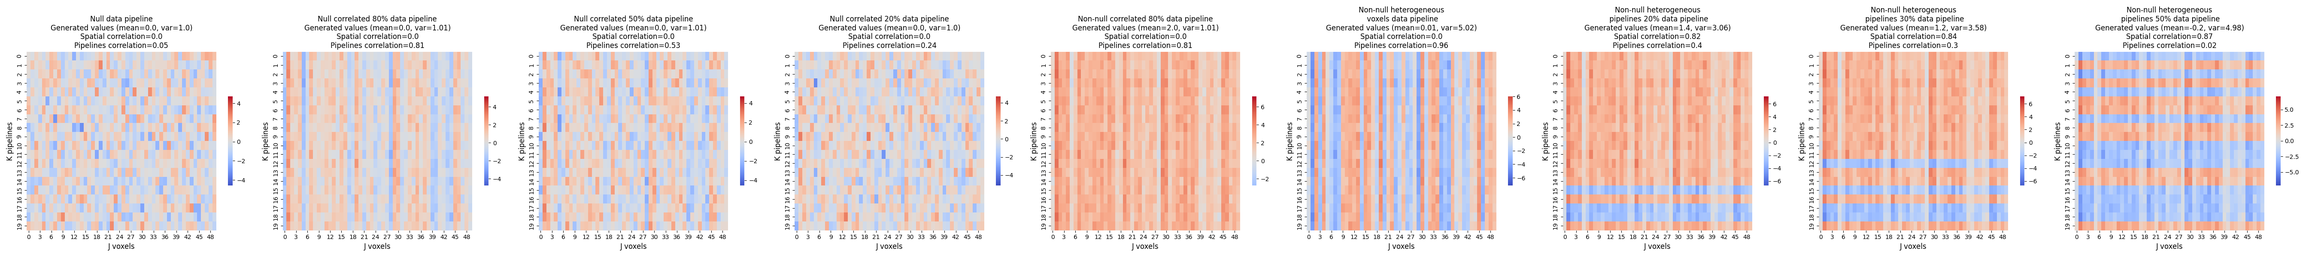
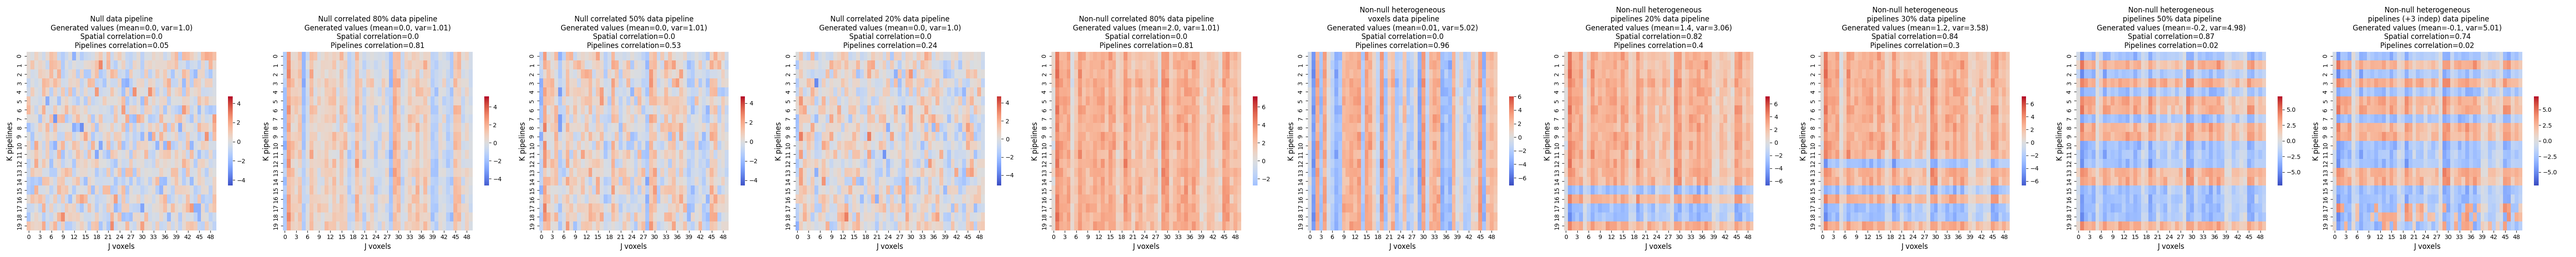
Add new simulation + weights visualisation

diff --git a/scripts/utils.py b/scripts/utils.py
@@ -3,6 +3,7 @@ import scipy
 import pandas
 import matplotlib.pyplot as plt
 import statsmodels.api as sm
+import seaborn
 
 def distribution_inversed(J):
     distribution_inversed = []
@@ -23,7 +24,11 @@ def plot_PP(MA_outputs, contrast_estimates,simulation):
      f, axs = plt.subplots(1, len(MA_estimators), figsize=(len(MA_estimators)*2, 2), sharex=True) 
      for col, title in enumerate(MA_estimators):
           # store required variables
-          T_map, p_values, ratio_significance, verdict = MA_outputs[title].values()
+          #  T_map, p_values, ratio_significance, verdict, _ = MA_outputs[title].values() # dangerous because dictionnary are not ordered
+          T_map = MA_outputs[title]["T_map"]
+          p_values = MA_outputs[title]["p_values"]
+          ratio_significance = MA_outputs[title]["ratio_significance"]
+          verdict = MA_outputs[title]["verdict"]
 
           # reformat p and t to sort and plot
           df_obs = pandas.DataFrame(data=numpy.array([p_values, T_map]).T, columns=["p_values", "T_values"])
@@ -84,7 +89,11 @@ def plot_QQ(MA_outputs, contrast_estimates,simulation, which="p"):
      f, axs = plt.subplots(1, len(MA_estimators), figsize=(len(MA_estimators)*2, 2), sharex=True) 
      for col, title in enumerate(MA_estimators):
           # store required variables
-          T_map, p_values, ratio_significance, verdict = MA_outputs[title].values()
+          #  T_map, p_values, ratio_significance, verdict, _ = MA_outputs[title].values() # dangerous because dictionnary are not ordered
+          T_map = MA_outputs[title]["T_map"]
+          p_values = MA_outputs[title]["p_values"]
+          ratio_significance = MA_outputs[title]["ratio_significance"]
+          verdict = MA_outputs[title]["verdict"]
 
           # make qqlot
           axs[col].title.set_text(title)
@@ -113,7 +122,11 @@ def compare_contrast_estimates_plot(MA_outputs, simulation):
      colors = ['blue', 'orange', 'green', 'red', 'purple', 'brown', 'pink', 'gray', 'olive', 'cyan']
      for ind, title in enumerate(MA_estimators):
           # store required variables
-          T_map, p_values, ratio_significance, verdict = MA_outputs[title].values()
+          #  T_map, p_values, ratio_significance, verdict, _ = MA_outputs[title].values() # dangerous because dictionnary are not ordered
+          T_map = MA_outputs[title]["T_map"]
+          p_values = MA_outputs[title]["p_values"]
+          ratio_significance = MA_outputs[title]["ratio_significance"]
+          verdict = MA_outputs[title]["verdict"]
           T_map.sort()
           plt.plot(range(0, len(T_map)), T_map, color=colors[ind], label=title)
      plt.legend(loc="lower right")
@@ -135,7 +148,11 @@ def plot_multiverse_PP(results_per_seed, J):
           for col, title in enumerate(MA_estimators):
                for seed in results_per_seed.keys():
                     # store required variables
-                    T_map, p_values, ratio_significance, verdict = results_per_seed[seed][generation][title].values()
+                    # T_map, p_values, ratio_significance, verdict, _ = results_per_seed[seed][generation][title].values() # dangerous because dictionnary are not ordered
+                    T_map = results_per_seed[seed][generation][title]["T_map"]
+                    p_values = results_per_seed[seed][generation][title]["p_values"]
+                    ratio_significance = results_per_seed[seed][generation][title]["ratio_significance"]
+                    verdict = results_per_seed[seed][generation][title]["verdict"]
                     # reformat p and t to sort and plot
                     df_obs = pandas.DataFrame(data=numpy.array([p_values, T_map]).T, columns=["p_values", "T_values"])
                     df_obs = df_obs.sort_values(by=['p_values'])
@@ -181,3 +198,23 @@ def plot_multiverse_PP(results_per_seed, J):
           plt.savefig("results_in_generated_data/pp_plot_multiverse_{}.png".format(generation))
           plt.close('all')
           print("** PLOTTING multiverse in {} ENDED WELL **".format(generation))
+
+def plot_weights(simulation, weights):
+     print("Plotting weights for each MA model and pipeline")
+     plt.close('all')
+     f, ax = plt.subplots(1, 2, figsize=(len(weights.columns), 10), sharey=True) 
+     seaborn.heatmap(weights[weights.columns[:-1]], center=0, vmin=0, vmax=1, cmap='coolwarm', square=True, ax=ax[0],cbar_kws={'shrink': 0.5})
+     ax[0].title.set_text("Weights for each MA model and pipeline for simulation \n{}".format(simulation))
+     ax[0].set_xlabel("MA models", fontsize = 12)
+     ax[0].set_ylabel("Pipelines", fontsize = 12)
+     seaborn.heatmap(weights[weights.columns[-1:]], center=0, cmap='coolwarm', square=True, ax=ax[1],cbar_kws={'shrink': 0.5})
+     ax[1].title.set_text("Pipeline type")
+     ax[1].set_xlabel("Mean Voxel", fontsize = 12)
+     plt.tight_layout()
+     if "\n" in simulation:
+          simulation = simulation.replace('\n', '')
+     simulation = simulation.replace(' ', '_')
+     plt.savefig("results_in_generated_data/weights_in_{}.png".format(simulation))
+     plt.close('all')
+     print("Done plotting")
+

diff --git a/scripts/MA_estimators.py b/scripts/MA_estimators.py
@@ -1,6 +1,6 @@
 import numpy
 import scipy
-from sklearn.preprocessing import StandardScaler
+from sklearn.preprocessing import StandardScaler, MinMaxScaler
 import importlib
 import utils
 
@@ -22,7 +22,8 @@ def average(contrast_estimates):
     # compute p-values for inference
     p_values = 1 - scipy.stats.norm.cdf(T_map)
     p_values = p_values.reshape(-1)
-    return T_map, p_values
+    weights = numpy.zeros(K)
+    return T_map, p_values, weights
 
 def Stouffer(contrast_estimates):
     # compute meta-analytic statistics
@@ -33,7 +34,8 @@ def Stouffer(contrast_estimates):
     # compute p-values for inference
     p_values = 1 - scipy.stats.norm.cdf(T_map)
     p_values = p_values.reshape(-1)
-    return T_map, p_values
+    weights = numpy.zeros(K)
+    return T_map, p_values, weights
 
 
 #########
@@ -52,7 +54,8 @@ def dependence_corrected_Stouffer(contrast_estimates):
     # compute p-values for inference
     p_values = 1 - scipy.stats.norm.cdf(T_map)
     p_values = p_values.reshape(-1)
-    return T_map, p_values
+    weights = numpy.zeros(K)
+    return T_map, p_values, weights
 
 def GLS_Stouffer(contrast_estimates):
     K = contrast_estimates.shape[0]
@@ -65,7 +68,12 @@ def GLS_Stouffer(contrast_estimates):
     # and assuming infinite df
     p_values = 1 - scipy.stats.norm.cdf(T_map)
     p_values = p_values.reshape(-1)
-    return T_map, p_values
+
+    weights = numpy.ones(K).dot(numpy.linalg.inv(Q))
+    weights = weights.reshape(-1, 1)
+    scaler = MinMaxScaler()
+    weights = scaler.fit_transform(weights)
+    return T_map, p_values, weights
 
 #########
 ##### SDMA consensus MA models #####
@@ -85,7 +93,8 @@ def consensus_Stouffer(contrast_estimates):
     # and assuming infinite df
     p_values = 1 - scipy.stats.norm.cdf(T_map)
     p_values = p_values.reshape(-1)
-    return T_map, p_values
+    weights = numpy.zeros(K)
+    return T_map, p_values, weights
 
 
 def weighted_Stouffer(contrast_estimates):
@@ -97,7 +106,7 @@ def weighted_Stouffer(contrast_estimates):
     # z* = (z - z_mean) / s 
     # with s = image-wise var for pipeline k
     # with z_mean = image-wise mean for pipeline k
-    # numpy.divide(numpy.subtract(contrast_estimates.T, contrast_estimates.T.mean(axis=0)), contrast_estimates.T.std(axis=0))
+    # numpy.divide(numpy.subtract(contrast_estimates.T, contrast_estimates.mean(axis=1)), contrast_estimates.std(axis=1))
     # These standardized maps are averaged over pipelines to create a map Z∗
     Z_star_mean_j = numpy.mean(contrast_estimates_std_Kwise, 0) # shape J
     # image-wise mean of this average of standard maps is zero
@@ -116,7 +125,12 @@ def weighted_Stouffer(contrast_estimates):
     # and assuming infinite df
     p_values = 1 - scipy.stats.norm.cdf(T_map)
     p_values = p_values.reshape(-1)
-    return T_map, p_values
+    
+    weights = contrast_estimates.mean(axis=1)*-1 # higher == less weight
+    weights = weights.reshape(-1, 1)
+    scaler = MinMaxScaler()
+    weights = scaler.fit_transform(weights)
+    return T_map, p_values, weights
 
 def consensus_GLS_Stouffer(contrast_estimates):
     # compute GLS Stouffer first
@@ -134,7 +148,12 @@ def consensus_GLS_Stouffer(contrast_estimates):
     # compute p-values for inference
     p_values = 1 - scipy.stats.norm.cdf(T_map)
     p_values = p_values.reshape(-1)
-    return T_map, p_values
+    
+    weights = numpy.ones(K).dot(numpy.linalg.inv(Q))
+    weights = weights.reshape(-1, 1)
+    scaler = MinMaxScaler()
+    weights = scaler.fit_transform(weights)
+    return T_map, p_values, weights
 
 
 def consensus_average(contrast_estimates):
@@ -150,7 +169,8 @@ def consensus_average(contrast_estimates):
     # and assuming infinite df
     p_values = 1 - scipy.stats.norm.cdf(T_map)
     p_values = p_values.reshape(-1)
-    return T_map, p_values
+    weights = numpy.zeros(K)
+    return T_map, p_values, weights
 
 if __name__ == "__main__":
    print('This file is intented to be used as imported only')

diff --git a/scripts/run_SDMA_in_generated_data.py b/scripts/run_SDMA_in_generated_data.py
@@ -1,6 +1,7 @@
 import os
 import seaborn
 import numpy
+import pandas
 
 import utils
 import data_generator 
@@ -24,16 +25,18 @@ generated_data = {"Null":data_generator.generate_simulation(case="Null"),
                 "Non-null heterogeneous\n voxels": data_generator.generate_simulation(case="Non-null heterogeneous voxels"),
                 "Non-null heterogeneous\n pipelines 20%": data_generator.generate_simulation(case="Non-null heterogeneous pipelines", anticorrelated_result_ratio=0.20),
                 "Non-null heterogeneous\n pipelines 30%": data_generator.generate_simulation(case="Non-null heterogeneous pipelines"),
-                "Non-null heterogeneous\n pipelines 50%": data_generator.generate_simulation(case="Non-null heterogeneous pipelines", anticorrelated_result_ratio=0.5)
+                "Non-null heterogeneous\n pipelines 50%": data_generator.generate_simulation(case="Non-null heterogeneous pipelines", anticorrelated_result_ratio=0.5),
+                "Non-null heterogeneous\n pipelines (+3 indep)": data_generator.generate_simulation(case="Non-null heterogeneous pipelines (+3 indep)", anticorrelated_result_ratio=0.5)
                 }
 
 # plot data (takes 30 sec)
-plot_generated_data.plot_data(generated_data)
+# plot_generated_data.plot_data(generated_data)
 
 ## DEBUGGING
 def print_summary_results(MA_outputs):
     for model in MA_outputs.keys():
         print(model, " T-map (5 first): ", MA_outputs[model]['T_map'][:5])
+
 
 for simulation in generated_data.keys():
     contrast_estimates = generated_data[simulation]
@@ -43,6 +46,13 @@ for simulation in generated_data.keys():
     if "Non-null" not in simulation:
         utils.plot_QQ(MA_outputs,contrast_estimates,simulation)
     utils.compare_contrast_estimates_plot(MA_outputs, simulation)
+    print('Saving weights..')
+    df_weights = pandas.DataFrame(columns=MA_outputs.keys())
+    for row in range(K):
+        for MA_model in MA_outputs.keys():
+            df_weights[MA_model] = MA_outputs[MA_model]['weights']
+    df_weights["Mean score"] = contrast_estimates.mean(axis=1)
+    utils.plot_weights(simulation, df_weights)
     ## DEBUGGING
     # print(simulation)
     # print_summary_results(MA_outputs)

diff --git a/scripts/data_generator.py b/scripts/data_generator.py
@@ -55,5 +55,22 @@ def generate_simulation(case="Null", K=20, J=20000, corr=0.8, mean=2, anticorrel
         return matrix_data.T # back to shape K, J
 
 
+    # Simulation 5: Non-null but heterogeneous data per team: Correlation Q + 
+    # all pipelines share same mean, but a percentage (anticorrelated_result_ratio) of the team have mu = -mu1
+    # and 3 teams have independant results
+    elif case=="Non-null heterogeneous pipelines (+3 indep)":
+        print("Generating simulation: ", case, ", corr=", corr, ", reverse ratio=", anticorrelated_result_ratio, ", independent teams: 3")
+        cov_mat = numpy.ones((K, K)) * corr
+        numpy.fill_diagonal(cov_mat, 1)
+        offset = numpy.ones(K) * mean 
+        matrix_data = numpy.random.multivariate_normal(offset, cov_mat, size=J).T # normal thus var = 1, transposed to get shape K,J
+        random_sign = numpy.random.choice([1, -1], size=K, replace=True, p=(1-anticorrelated_result_ratio, anticorrelated_result_ratio))
+        matrix_data = matrix_data.T*random_sign # team wise heterogeneity
+        matrix_data = matrix_data.T # back to shape K, J
+        matrix_data[-3:, :] = matrix_data[-3:, :] * numpy.random.choice([1, -1], size=(3,J), replace=True) # 3 teams with independent results
+        return matrix_data
+
+
+
 if __name__ == "__main__":
    print('This file is intented to be used as imported only')

diff --git a/scripts/compute_MA_outputs.py b/scripts/compute_MA_outputs.py
@@ -12,7 +12,7 @@ def get_MA_outputs(contrast_estimates):
 	def run_estimator(title, estimator_function):
 		nonlocal results_simulation
 		print(f"Running -{title}- estimator")
-		T_map, p_values = estimator_function(contrast_estimates)
+		T_map, p_values, weights = estimator_function(contrast_estimates)
 		ratio_significance_raw = (p_values <= 0.05).sum() / len(p_values)
 		ratio_significance = numpy.round(ratio_significance_raw * 100, 4)
 		lim = 2 * numpy.sqrt(0.05 * (1 - 0.05) / J)
@@ -21,7 +21,8 @@ def get_MA_outputs(contrast_estimates):
 		   'T_map': T_map,
 		   'p_values': p_values,
 		   'ratio_significance': ratio_significance,
-		   'verdict': verdict
+		   'verdict': verdict,
+		   'weights': weights
 		} 
 	run_estimator("Average", MA_estimators.average)
 	run_estimator("Stouffer", MA_estimators.Stouffer)

diff --git a/README.md b/README.md
@@ -18,13 +18,14 @@ git clone https://github.com/JLefortBesnard/SDMA.git
 #### PP plots
 
 ![image link](results_in_generated_data/pp_plot_Null.png)
-![image link](results_in_generated_data/pp_plot_Null_correlated_80%.png)
-![image link](results_in_generated_data/pp_plot_Null_correlated_50%.png)
-![image link](results_in_generated_data/pp_plot_Null_correlated_20%.png)
+![image link](results_in_generated_data/pp_plot_Null_correlated_80%25.png)
+![image link](results_in_generated_data/pp_plot_Null_correlated_50%25.png)
+![image link](results_in_generated_data/pp_plot_Null_correlated_20%25.png)
 ![image link](results_in_generated_data/pp_plot_Non-null_heterogeneous_voxels.png)
-![image link](results_in_generated_data/pp_plot_Non-null_heterogeneous_pipelines_20%.png)
-![image link](results_in_generated_data/pp_plot_Non-null_heterogeneous_pipelines_30%.png)
-![image link](results_in_generated_data/pp_plot_Non-null_heterogeneous_pipelines_50%.png)
+![image link](results_in_generated_data/pp_plot_Non-null_heterogeneous_pipelines_20%25.png)
+![image link](results_in_generated_data/pp_plot_Non-null_heterogeneous_pipelines_30%25.png)
+![image link](results_in_generated_data/pp_plot_Non-null_heterogeneous_pipelines_50%25.png)
+![image link](results_in_generated_data/pp_plot_Non-null_heterogeneous_pipelines_(+3indep).png)
 &nbsp;
 
 ---
@@ -32,13 +33,30 @@ git clone https://github.com/JLefortBesnard/SDMA.git
 #### PP plots multiverse (10 different seeds)
 
 ![image link](results_in_generated_data/pp_plot_multiverse_Null.png)
-![image link](results_in_generated_data/pp_plot_multiverse_Null_correlated_80%.png)
-![image link](results_in_generated_data/pp_plot_multiverse_Null_correlated_50%.png)
-![image link](results_in_generated_data/pp_plot_multiverse_Null_correlated_20%.png)
+![image link](results_in_generated_data/pp_plot_multiverse_Null_correlated_80%25.png)
+![image link](results_in_generated_data/pp_plot_multiverse_Null_correlated_50%25.png)
+![image link](results_in_generated_data/pp_plot_multiverse_Null_correlated_20%25.png)
 ![image link](results_in_generated_data/pp_plot_multiverse_Non-null_heterogeneous_voxels.png)
-![image link](results_in_generated_data/pp_plot_multiverse_Non-null_heterogeneous_pipelines_20%.png)
-![image link](results_in_generated_data/pp_plot_multiverse_Non-null_heterogeneous_pipelines_30%.png)
-![image link](results_in_generated_data/pp_plot_multiverse_Non-null_heterogeneous_pipelines_50%.png)
+![image link](results_in_generated_data/pp_plot_multiverse_Non-null_heterogeneous_pipelines_20%25.png)
+![image link](results_in_generated_data/pp_plot_multiverse_Non-null_heterogeneous_pipelines_30%25.png)
+![image link](results_in_generated_data/pp_plot_multiverse_Non-null_heterogeneous_pipelines_50%25.png)
+![image link](results_in_generated_data/pp_plot_multiverse_Non-null_heterogeneous_pipelines_(+3indep).png)
+&nbsp;
+
+---
+
+
+#### Weights per pipeline per MA models
+
+![image link](results_in_generated_data/weights_in_Null.png)
+![image link](results_in_generated_data/weights_in_Null_correlated_80%25.png)
+![image link](results_in_generated_data/weights_in_Null_correlated_50%25.png)
+![image link](results_in_generated_data/weights_in_Null_correlated_20%25.png)
+![image link](results_in_generated_data/weights_in_Non-null_heterogeneous_voxels.png)
+![image link](results_in_generated_data/weights_in_Non-null_heterogeneous_pipelines_20%25.png)
+![image link](results_in_generated_data/weights_in_Non-null_heterogeneous_pipelines_30%25.png)
+![image link](results_in_generated_data/weights_in_Non-null_heterogeneous_pipelines_50%25.png)
+![image link](results_in_generated_data/weights_in_Non-null_heterogeneous_pipelines_(+3_indep).png)
 &nbsp;
 
 ---
